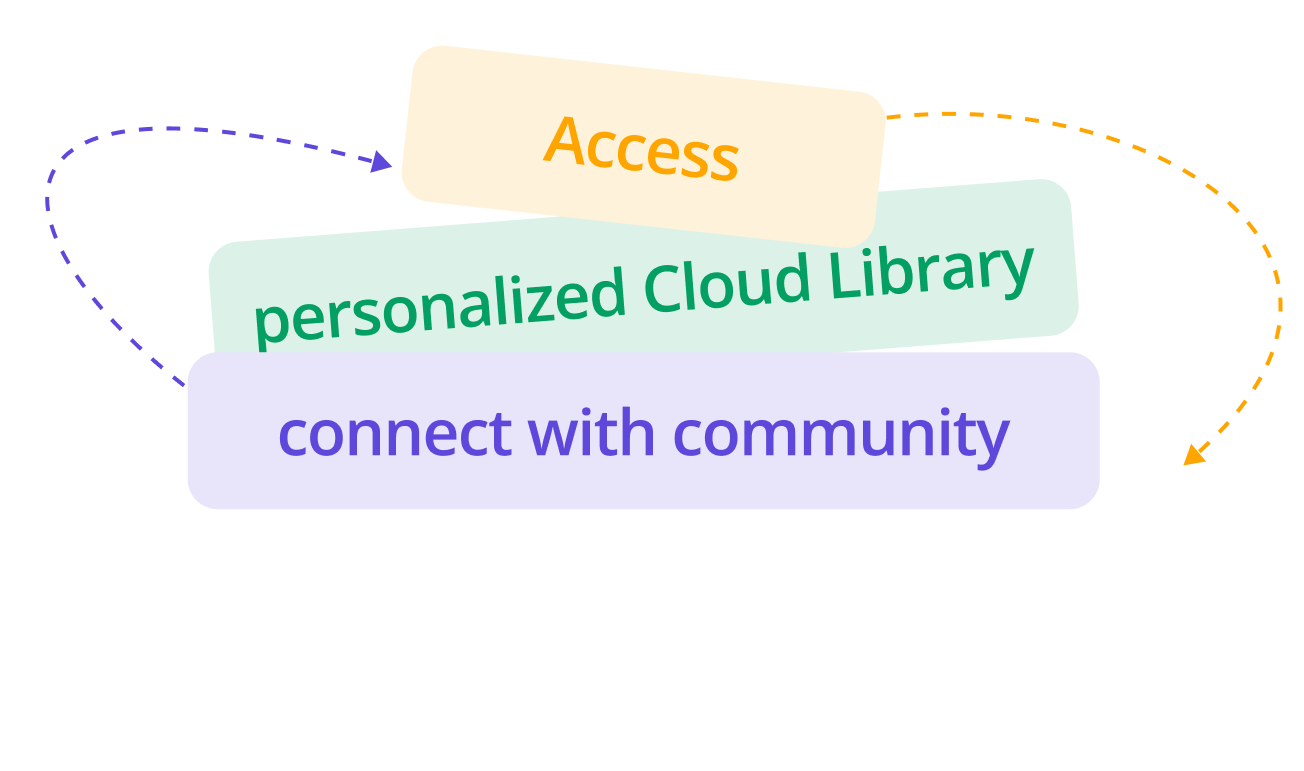
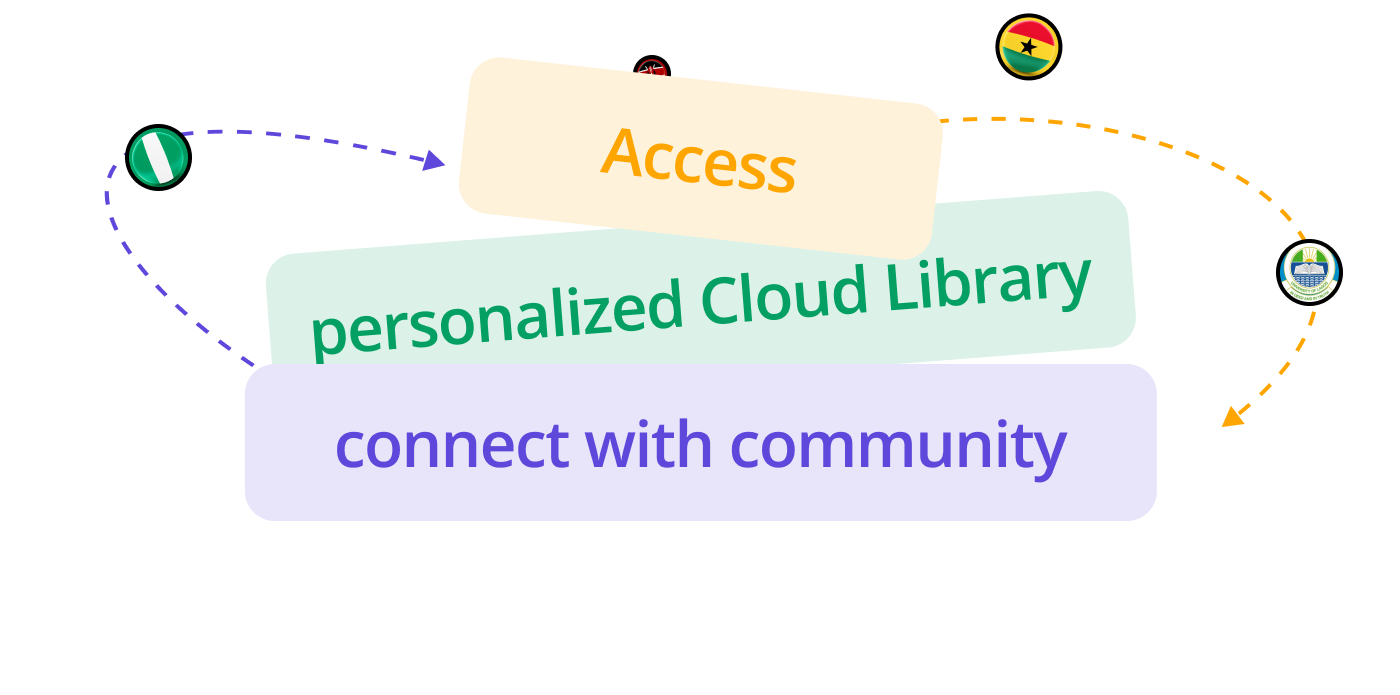
gartekcloud landing page

diff --git a/src/component/Hero/Hero.jsx b/src/component/Hero/Hero.jsx
@@ -1,7 +1,27 @@
 export default function Hero() {
   return (
-    <div>
-      
-    </div>
+    <section>
+        <div className="mb-10">
+          <div>
+            <img src="HeroBanner.png" alt="" srcset="" />
+          </div>
+          <div className="flex flex-col items-center justify-center -mt-4 sm:-mt-16 md:-mt-36 xl:-mt-40">
+            <div>
+              <img src="" alt="" srcset="" />
+            </div>
+            <div className="flex flex-col items-center font-normal">
+              <p>Join thousands of students transforming their study experience with</p>
+              <p>seamless access to organized materials and powerful  media</p>
+              <p>integration on Gartekcloude!</p>
+            </div>
+            <div>
+              <img src="" alt="" srcset="" />
+            </div>
+          </div>
+          <div className="flex justify-center items-center mt-5">
+            <button className="bg-[#FFA500] py-1 px-5 rounded-lg text-white">join waitlist now!</button>
+          </div>
+        </div>
+    </section>
   )
 }

diff --git a/src/App.jsx b/src/App.jsx
@@ -1,5 +1,4 @@
-// import Hero from "./component/Hero/Hero";
-
+import Hero from "./component/Hero/Hero";
 import Faq from "./component/Faq/Faq";
 import FifthSection from "./component/FifthSection/FifthSection";
 import Footer from "./component/Footer/Footer";
@@ -11,7 +10,7 @@ import Thirdsection from "./component/Thirdsection/Thirdsection";
 export default function App() {
   return (
     <>
-      {/* <Hero /> */}
+      <Hero />
       <HeroBanner />
       <Thirdsection />
       <ForthSection />
